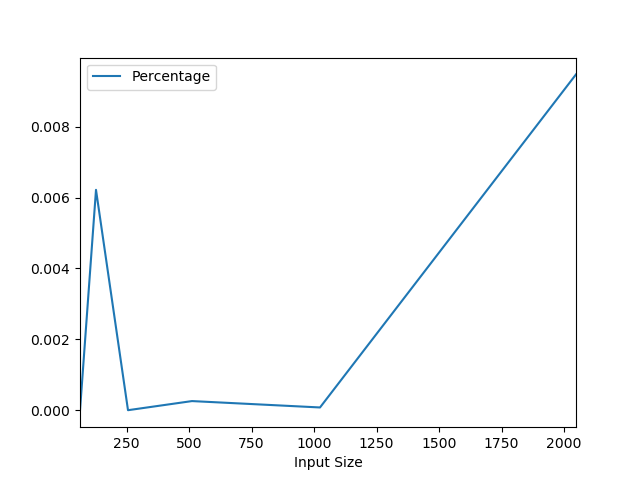
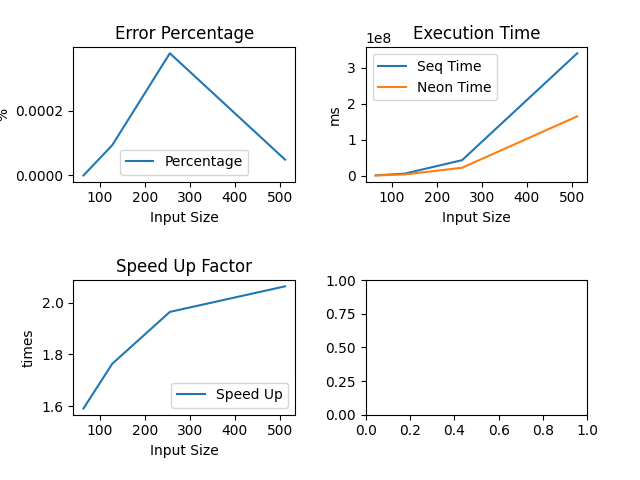
Time and Error Plots

diff --git a/src/main_neon.cpp b/src/main_neon.cpp
@@ -294,8 +294,7 @@ int main(int argc, char **argv)
     /* If Input valid, run test */
     if (validMatrix(matrixVec))
     {
-        double duration = 0;
-
+        duration<double, std::milli> ms_double;
         switch (test_mode)
         {
         case 1:
@@ -304,11 +303,11 @@ int main(int argc, char **argv)
             t1 = high_resolution_clock::now();
             matrix_f32 = cholesky_f32(matrix_f32, dim);
             t2 = high_resolution_clock::now();
-            duration = (t2 - t1).count();
+            ms_double = t2 - t1;
             std::cout
-                << "\033[32m[RESULT] <f32> " << duration << " ms\033[0m"
+                << "\033[32m[RESULT] <f32> " << ms_double.count() << " ms\033[0m"
                 << endl;
-            writeOuput<float>(matrix_f32, duration);
+            writeOuput<float>(matrix_f32, ms_double.count());
             break;
 
         case 2:
@@ -317,11 +316,11 @@ int main(int argc, char **argv)
             t1 = high_resolution_clock::now();
             matrix_f64 = cholesky_f64(matrix_f64, dim);
             t2 = high_resolution_clock::now();
-            duration = (t2 - t1).count();
+            ms_double = t2 - t1;
             std::cout
-                << "\033[32m[RESULT] <f64> " << duration << " ms\033[0m"
+                << "\033[32m[RESULT] <f64> " << ms_double.count() << " ms\033[0m"
                 << endl;
-            writeOuput<double>(matrix_f64, duration);
+            writeOuput<double>(matrix_f64, ms_double.count());
             break;
 
         default:

diff --git a/src/main_seq.cpp b/src/main_seq.cpp
@@ -196,7 +196,7 @@ int main(int argc, char **argv)
     /* Initialise */
     if (validMatrix(matrixVec))
     {
-        double duration = 0;
+        duration<double, std::milli> ms_double;
 
         switch (test_mode)
         {
@@ -206,11 +206,11 @@ int main(int argc, char **argv)
             t1 = high_resolution_clock::now();
             matrix_f32 = cholesky<float>(matrix_f32, dim);
             t2 = high_resolution_clock::now();
-            duration = (t2 - t1).count();
+            ms_double = t2 - t1;
             std::cout
-                << "\033[32m[RESULT] <f32> " << duration << " ms\033[0m"
+                << "\033[32m[RESULT] <f32> " << ms_double.count() << " ms\033[0m"
                 << endl;
-            writeOuput<float>(matrix_f32, duration);
+            writeOuput<float>(matrix_f32, ms_double.count());
             break;
 
         case 2:
@@ -219,11 +219,11 @@ int main(int argc, char **argv)
             t1 = high_resolution_clock::now();
             matrix_f64 = cholesky<double>(matrix_f64, dim);
             t2 = high_resolution_clock::now();
-            duration = (t2 - t1).count();
+            ms_double = t2 - t1;
             std::cout
-                << "\033[32m[RESULT] <f64> " << duration << " ms\033[0m"
+                << "\033[32m[RESULT] <f64> " << ms_double.count() << " ms\033[0m"
                 << endl;
-            writeOuput<double>(matrix_f64, duration);
+            writeOuput<double>(matrix_f64, ms_double.count());
             break;
 
         default:

diff --git a/src/graph.py b/src/graph.py
@@ -3,16 +3,32 @@ import pandas as pd
 import matplotlib.pyplot as plt
 from termcolor import colored
 
+filename = "test_result.png"
+
 data = pd.read_csv("test_results.txt", sep=" ", header=None)
 data.columns = ["Input Size", "Sum Error", "Percentage", "Seq Time", "Neon Time"]
+data["Speed Up"] = data["Seq Time"] / data["Neon Time"]
 
-data.plot(x="Input Size", y="Percentage", kind="line")
+fig, axes = plt.subplots(nrows=2, ncols=2)
+plt.tight_layout(pad=3, w_pad=2.0, h_pad=5)
 
-filename = "test_result.png"
+axes[0, 0].title.set_text("Error Percentage")
+axes[0, 0].set_ylabel("%")
+data.plot(ax=axes[0, 0], x="Input Size", y="Percentage", kind="line")
+
+axes[0, 1].title.set_text("Execution Time")
+axes[0, 1].set_ylabel("ms")
+data.plot(ax=axes[0, 1], x="Input Size", y=["Seq Time", "Neon Time"], kind="line")
+
+axes[1, 0].title.set_text("Speed Up Factor")
+axes[1, 0].set_ylabel("times")
+data.plot(ax=axes[1, 0], x="Input Size", y="Speed Up", kind="line")
+
+
 plt.savefig(filename)
+
 msg = "[TEST] Graph saved to: " + filename
 print(colored(msg, "blue"))
 
 avg_percent = data["Percentage"].mean()
-
 print("Average error percentage: ", avg_percent)

diff --git a/src/check_result.py b/src/check_result.py
@@ -79,7 +79,7 @@ duration_a = float(time_a[0])
 with open(fn4, "r") as f:
     for line in f.readlines():
         for token in line.split():
-            time_a.append(token)
+            time_b.append(token)
 duration_b = float(time_b[0])
 
 ######################################################################
